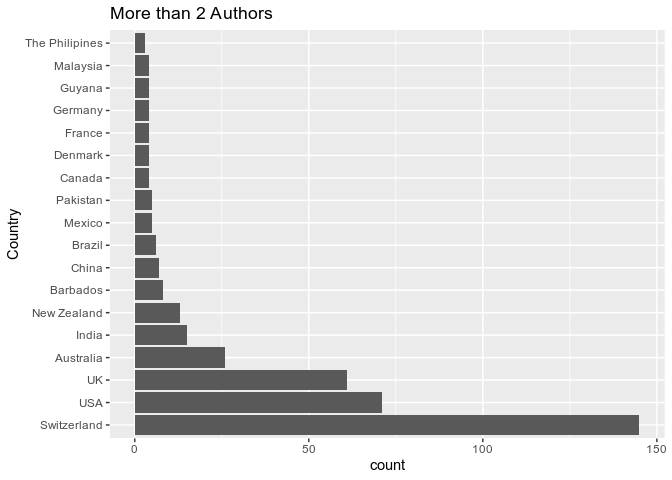
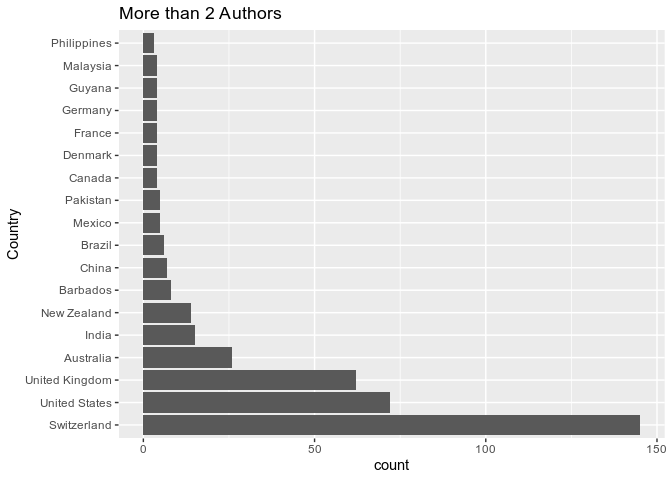
knit

diff --git a/NCDanalysis.md b/NCDanalysis.md
@@ -1,7 +1,7 @@
 Geographies of Non-Communicable Diseases
 ================
 James Millington
-2020-07-23
+2020-08-05
 
   - [Aim](#aim)
   - [Analysis: Counts](#analysis-counts)
@@ -9,7 +9,8 @@ James Millington
       - [Countries](#countries)
       - [Continents](#continents)
   - [Analysis: Temporal](#analysis-temporal)
-      - [Top 10 Authors](#top-10-authors)
+      - [All Data](#all-data)
+      - [Top 8 Authors](#top-8-authors)
       - [Top 20 Countries](#top-20-countries)
       - [Top 10 Countries](#top-10-countries)
       - [Continents](#continents-1)
@@ -34,29 +35,52 @@ Analyse database of expertise on Non-Communicable Disease (NCDs)
 ### Countries
 
 ![](NCDanalysis_files/figure-gfm/unnamed-chunk-3-1.png)<!-- -->![](NCDanalysis_files/figure-gfm/unnamed-chunk-3-2.png)<!-- -->
+Maps (countries) by paper
+
+![](NCDanalysis_files/figure-gfm/unnamed-chunk-6-1.png)<!-- -->![](NCDanalysis_files/figure-gfm/unnamed-chunk-6-2.png)<!-- -->![](NCDanalysis_files/figure-gfm/unnamed-chunk-6-3.png)<!-- -->![](NCDanalysis_files/figure-gfm/unnamed-chunk-6-4.png)<!-- -->![](NCDanalysis_files/figure-gfm/unnamed-chunk-6-5.png)<!-- -->![](NCDanalysis_files/figure-gfm/unnamed-chunk-6-6.png)<!-- -->
+
+    ## Creating frames
+
+    ## ===========================
+
+    ## =============
+
+    ## =============
+
+    ## ==============
+
+    ## =============
+
+    ## 
+    ## Creating animation
+    ## Animation saved to /home/james/OneDrive/Research/Papers/InProgress/Herrick_HealthNCD/Analysis/NCDGeographies/map_lancet_anim.gif
 
 ### Continents
 
-![](NCDanalysis_files/figure-gfm/unnamed-chunk-4-1.png)<!-- -->![](NCDanalysis_files/figure-gfm/unnamed-chunk-4-2.png)<!-- -->
+![](NCDanalysis_files/figure-gfm/unnamed-chunk-9-1.png)<!-- -->
 
 ## Analysis: Temporal
 
-### Top 10 Authors
+### All Data
 
-![](NCDanalysis_files/figure-gfm/unnamed-chunk-5-1.png)<!-- -->![](NCDanalysis_files/figure-gfm/unnamed-chunk-5-2.png)<!-- -->
+![](NCDanalysis_files/figure-gfm/unnamed-chunk-10-1.png)<!-- -->![](NCDanalysis_files/figure-gfm/unnamed-chunk-10-2.png)<!-- -->![](NCDanalysis_files/figure-gfm/unnamed-chunk-10-3.png)<!-- -->![](NCDanalysis_files/figure-gfm/unnamed-chunk-10-4.png)<!-- -->![](NCDanalysis_files/figure-gfm/unnamed-chunk-10-5.png)<!-- -->
+
+### Top 8 Authors
+
+![](NCDanalysis_files/figure-gfm/unnamed-chunk-11-1.png)<!-- -->![](NCDanalysis_files/figure-gfm/unnamed-chunk-11-2.png)<!-- -->
 
 ### Top 20 Countries
 
-![](NCDanalysis_files/figure-gfm/unnamed-chunk-6-1.png)<!-- -->![](NCDanalysis_files/figure-gfm/unnamed-chunk-6-2.png)<!-- -->
+![](NCDanalysis_files/figure-gfm/unnamed-chunk-13-1.png)<!-- -->![](NCDanalysis_files/figure-gfm/unnamed-chunk-13-2.png)<!-- -->
 
 ### Top 10 Countries
 
-![](NCDanalysis_files/figure-gfm/unnamed-chunk-7-1.png)<!-- -->![](NCDanalysis_files/figure-gfm/unnamed-chunk-7-2.png)<!-- -->
+![](NCDanalysis_files/figure-gfm/unnamed-chunk-14-1.png)<!-- -->![](NCDanalysis_files/figure-gfm/unnamed-chunk-14-2.png)<!-- -->
 
 ### Continents
 
-![](NCDanalysis_files/figure-gfm/unnamed-chunk-8-1.png)<!-- -->![](NCDanalysis_files/figure-gfm/unnamed-chunk-8-2.png)<!-- -->
+![](NCDanalysis_files/figure-gfm/unnamed-chunk-15-1.png)<!-- -->![](NCDanalysis_files/figure-gfm/unnamed-chunk-15-2.png)<!-- -->
 
 ### Institution Type
 
-![](NCDanalysis_files/figure-gfm/unnamed-chunk-9-1.png)<!-- -->![](NCDanalysis_files/figure-gfm/unnamed-chunk-9-2.png)<!-- -->
+![](NCDanalysis_files/figure-gfm/unnamed-chunk-16-1.png)<!-- -->![](NCDanalysis_files/figure-gfm/unnamed-chunk-16-2.png)<!-- -->
